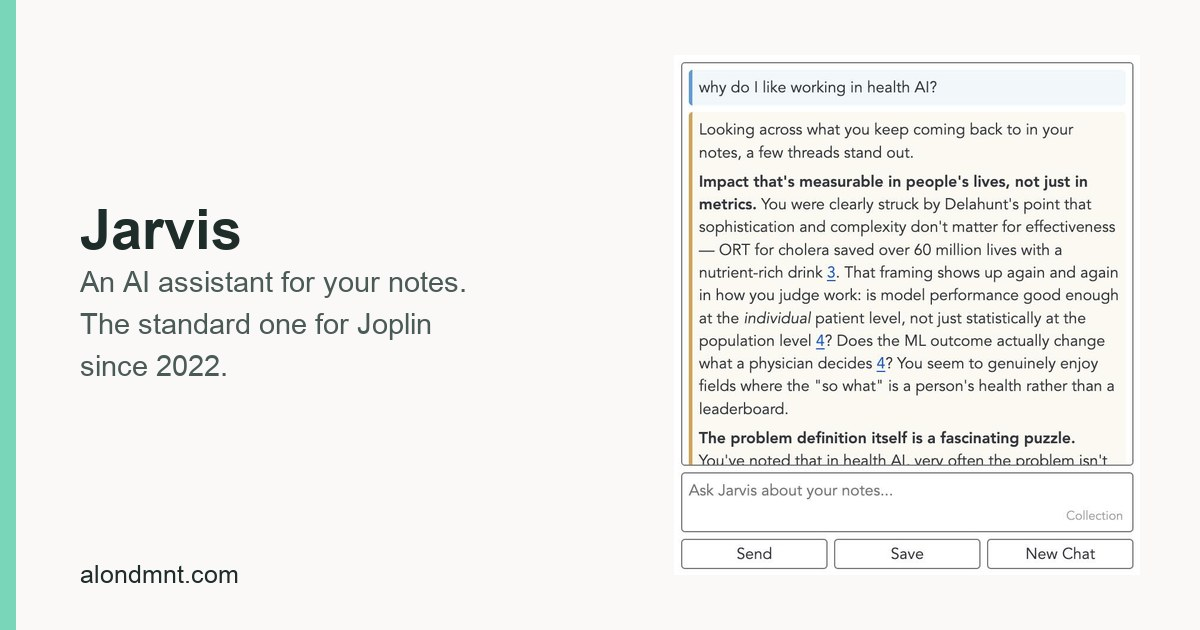
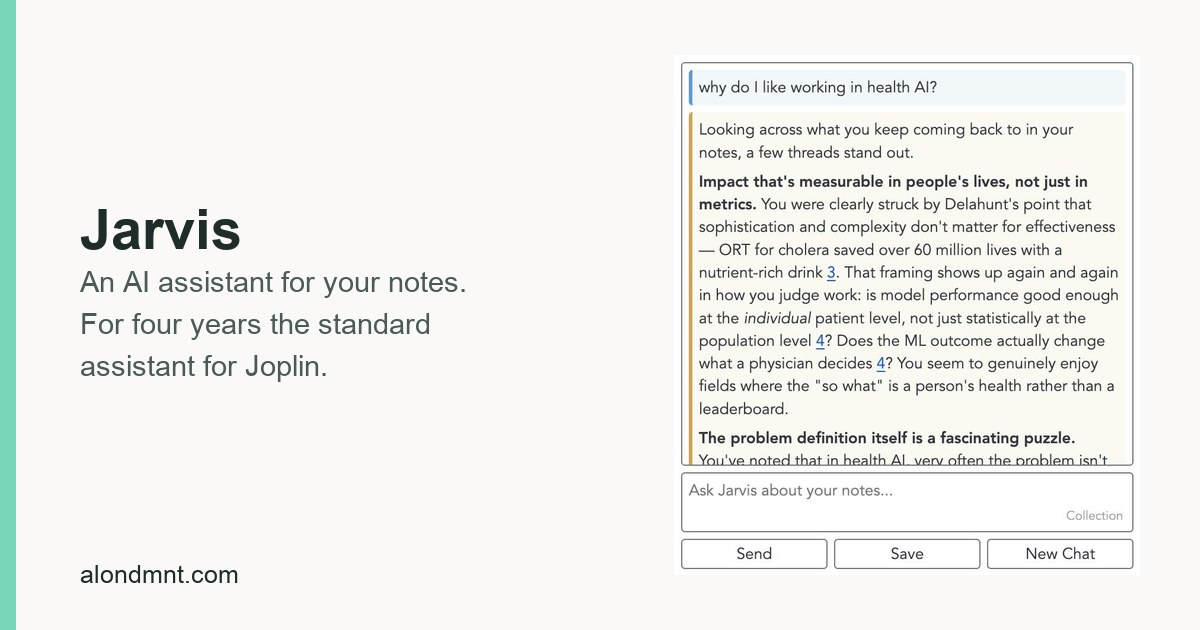
Rebuild: trim PhenoBench on the landing page, Jarvis og to past tense
Built from alondmnt/alondmnt.com @ 97882c6.

Changed region(s): [[0.0617, 0.4825, 0.37, 0.6032]]

diff --git a/index.html b/index.html
@@ -254,7 +254,7 @@
 <p>I led the metabolic health agent project, a five-person effort across company teams, from architecture through to evaluation. It exists because of a real failure: leading foundation models invent clinical numbers when you ask them about a person&rsquo;s health data. We gave it tools that compute those numbers, trained prediction models, cohort data to compare a person against, and two kinds of context: curated, as skills, and retrieved, from the literature. Correctly reported clinical measurements rose from about 14% to 90%, and a score for the form and provenance of the report from 0.37 to 0.91, against a foundation-model baseline. The <a href="https://github.com/alondmnt/hpp-health-agent">code is public</a>.</p>
 <p><a href="/health-agent">How it works, and what the evaluation misses.</a></p>
 <h4 id="a-common-test-bed">A common test bed</h4>
-<p>I co-built <a href="/phenobench">PhenoBench</a>, a benchmark that turns the cohort into a common test bed for any model, from classical baselines to large language models. Each question fixes its population, timing, training and test split, what information is allowed, the metric and the baseline, so that results stay comparable: 90 tasks drawn from real clinical questions, across 15 domains and 26 input modalities. It is also what we measure our own models against, including the foundation models above.</p>
+<p>I co-built <a href="/phenobench">PhenoBench</a>, a benchmark that turns the cohort into a common test bed: 90 tasks drawn from real clinical questions, each fixing its population, its metric and its baseline so that results stay comparable. It is also what we measure our own models against, including the foundation models above.</p>
 <p>We ran pretrained tabular foundation models through it. They came out ahead in 121 of 160 matched comparisons, and improved on ridge regression by a median of only 0.004 R2: consistent wins, and very small ones.</p>
 <p><a href="/phenobench">What it is, and what it showed.</a></p>
 <h4 id="sleep-end-to-end">Sleep, end to end</h4>
